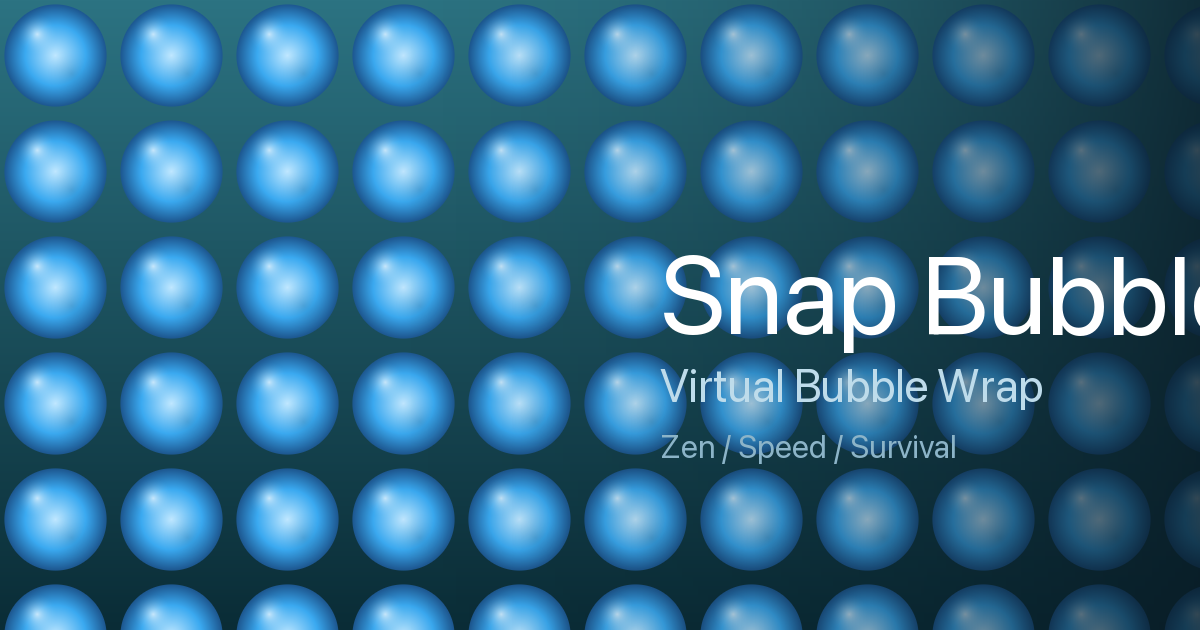
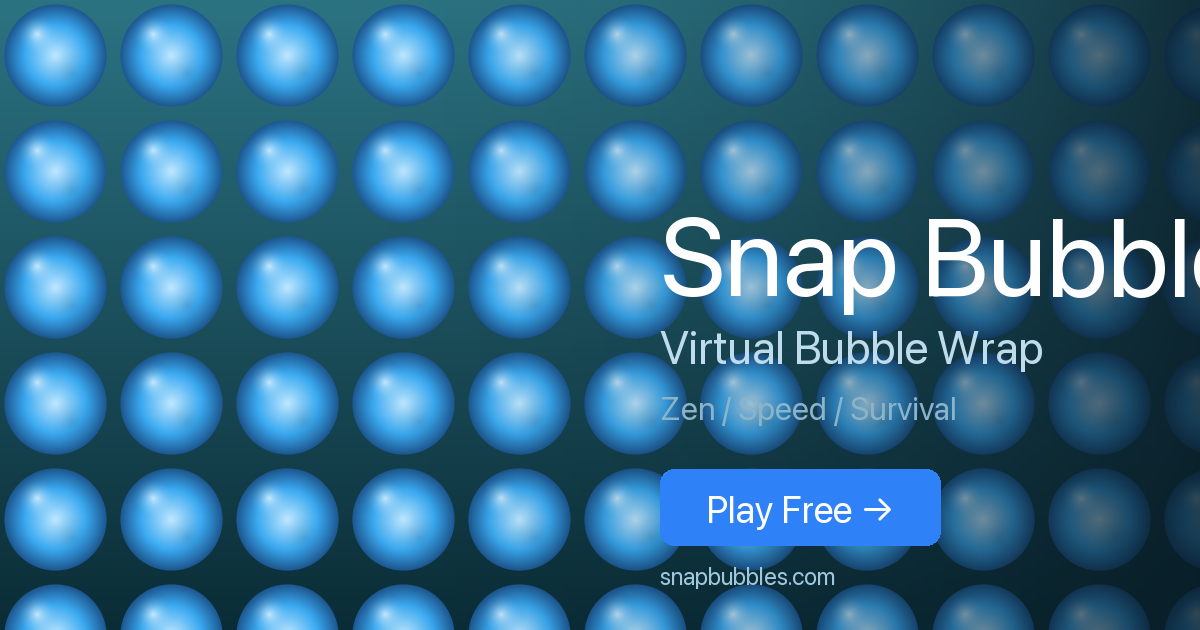
SEO: longer titles/descriptions, OG image with CTA pill

Changed region(s): [[0.5242, 0.3317, 1.0, 0.8746], [0.555, 0.9048, 0.7092, 0.9349]]

diff --git a/index.html b/index.html
@@ -4,8 +4,8 @@
   <meta charset="utf-8" />
   <meta name="viewport" content="width=device-width, initial-scale=1, viewport-fit=cover, user-scalable=no" />
   <meta name="theme-color" content="#0d1117" />
-  <title>Snap Bubbles — Virtual Bubble Wrap Game (Free, Online)</title>
-  <meta name="description" content="Free virtual bubble wrap online. Pop bubbles to relax in Zen mode, race the clock in Speed mode, or beat the countdown in Survival mode. No download, plays in your browser." />
+  <title>Snap Bubbles — Virtual Bubble Wrap Pop Game (Free Online)</title>
+  <meta name="description" content="Pop virtual bubble wrap online — three modes for relaxation, speed runs, or arcade-style countdown survival. Free, no download, plays in any browser." />
   <link rel="canonical" href="https://snapbubbles.com/" />
 
   <link rel="manifest" href="manifest.webmanifest" />
@@ -19,8 +19,8 @@
   <!-- Open Graph / Facebook -->
   <meta property="og:type" content="website" />
   <meta property="og:url" content="https://snapbubbles.com/" />
-  <meta property="og:title" content="Snap Bubbles — Virtual Bubble Wrap Game" />
-  <meta property="og:description" content="Pop virtual bubble wrap online. Zen, Speed, or Survival mode. Free, no install." />
+  <meta property="og:title" content="Snap Bubbles — Virtual Bubble Wrap Pop Game (Free Online)" />
+  <meta property="og:description" content="Pop virtual bubble wrap online — three modes for relaxation, speed-run challenges, or arcade-style countdown survival. Free, no download, plays in any browser." />
   <meta property="og:image" content="https://snapbubbles.com/icons/og-image.png" />
   <meta property="og:image:width" content="1200" />
   <meta property="og:image:height" content="630" />
@@ -29,8 +29,8 @@
   <!-- Twitter -->
   <meta name="twitter:card" content="summary_large_image" />
   <meta name="twitter:url" content="https://snapbubbles.com/" />
-  <meta name="twitter:title" content="Snap Bubbles — Virtual Bubble Wrap Game" />
-  <meta name="twitter:description" content="Pop virtual bubble wrap online. Three modes. Free, no install." />
+  <meta name="twitter:title" content="Snap Bubbles — Virtual Bubble Wrap Pop Game (Free Online)" />
+  <meta name="twitter:description" content="Pop virtual bubble wrap online — three modes for relaxation, speed runs, or arcade-style countdown survival. Free, no download, plays in any browser." />
   <meta name="twitter:image" content="https://snapbubbles.com/icons/og-image.png" />
 
   <!-- JSON-LD: VideoGame schema -->

diff --git a/sw.js b/sw.js
@@ -1,4 +1,4 @@
-const CACHE = 'snapbubbles-v3';
+const CACHE = 'snapbubbles-v4';
 const ASSETS = [
   './',
   './index.html',

diff --git a/scripts/generate_icons.py b/scripts/generate_icons.py
@@ -133,16 +133,20 @@ def draw_og_image(width=1200, height=630):
         od.line([(x, 0), (x, height)], fill=(8, 25, 35, a))
     img = Image.alpha_composite(img, overlay)
 
-    # Wordmark text — "Snap Bubbles" + tagline
+    # Wordmark text — "Snap Bubbles" + tagline + CTA button
     draw = ImageDraw.Draw(img)
     title = "Snap Bubbles"
     tagline = "Virtual Bubble Wrap"
     sub = "Zen / Speed / Survival"
+    cta = "Play Free →"
+    cta_url = "snapbubbles.com"
 
     # Try to load nicer fonts; fall back to default
     title_font = None
     tagline_font = None
     sub_font = None
+    cta_font = None
+    url_font = None
     candidate_fonts = [
         "/System/Library/Fonts/SFNS.ttf",
         "/System/Library/Fonts/Helvetica.ttc",
@@ -155,16 +159,42 @@ def draw_og_image(width=1200, height=630):
                 title_font = ImageFont.truetype(path, 110)
                 tagline_font = ImageFont.truetype(path, 46)
                 sub_font = ImageFont.truetype(path, 32)
+                cta_font = ImageFont.truetype(path, 38)
+                url_font = ImageFont.truetype(path, 24)
                 break
             except Exception:
                 continue
 
-    title_x = width * 0.55
-    title_y = height * 0.36
+    title_x = int(width * 0.55)
+    title_y = int(height * 0.30)
     if title_font:
         draw.text((title_x, title_y), title, fill=(255, 255, 255, 255), font=title_font)
         draw.text((title_x, title_y + 130), tagline, fill=(190, 220, 235, 255), font=tagline_font)
         draw.text((title_x, title_y + 200), sub, fill=(140, 180, 200, 220), font=sub_font)
+
+        # CTA pill — rounded button with "Play Free →"
+        cta_x0 = title_x
+        cta_y0 = title_y + 280
+        cta_w = 280
+        cta_h = 76
+        draw.rounded_rectangle(
+            (cta_x0, cta_y0, cta_x0 + cta_w, cta_y0 + cta_h),
+            radius=14,
+            fill=(47, 129, 247, 255),
+        )
+        # Center text within pill
+        try:
+            bbox = draw.textbbox((0, 0), cta, font=cta_font)
+            tw = bbox[2] - bbox[0]
+            th = bbox[3] - bbox[1]
+        except Exception:
+            tw, th = cta_font.getsize(cta) if cta_font else (140, 38)
+        tx = cta_x0 + (cta_w - tw) // 2
+        ty = cta_y0 + (cta_h - th) // 2 - 4
+        draw.text((tx, ty), cta, fill=(255, 255, 255, 255), font=cta_font)
+
+        # URL line below the CTA
+        draw.text((title_x, cta_y0 + cta_h + 16), cta_url, fill=(160, 200, 220, 200), font=url_font)
     else:
         draw.text((title_x, title_y), title, fill=(255, 255, 255, 255))
 
